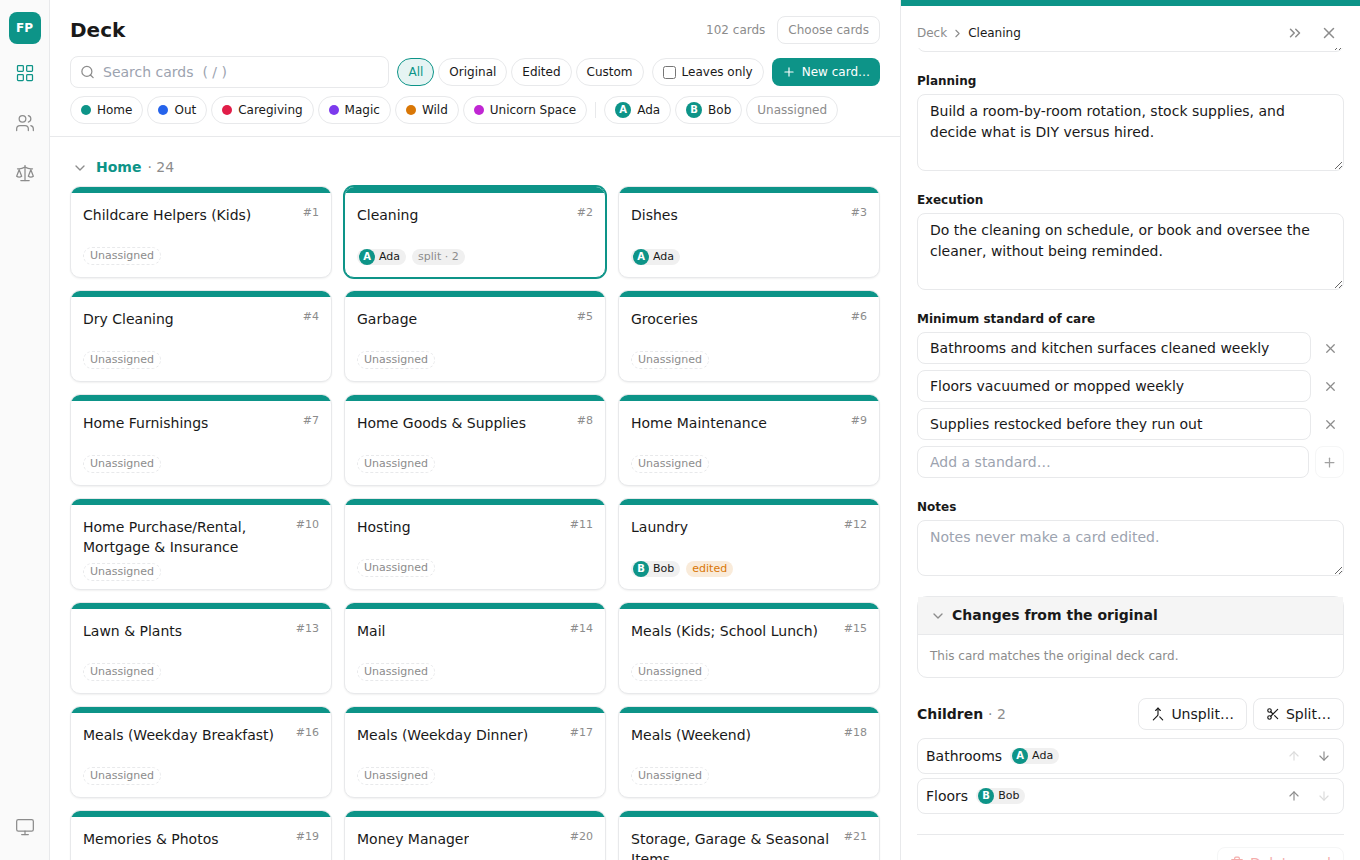
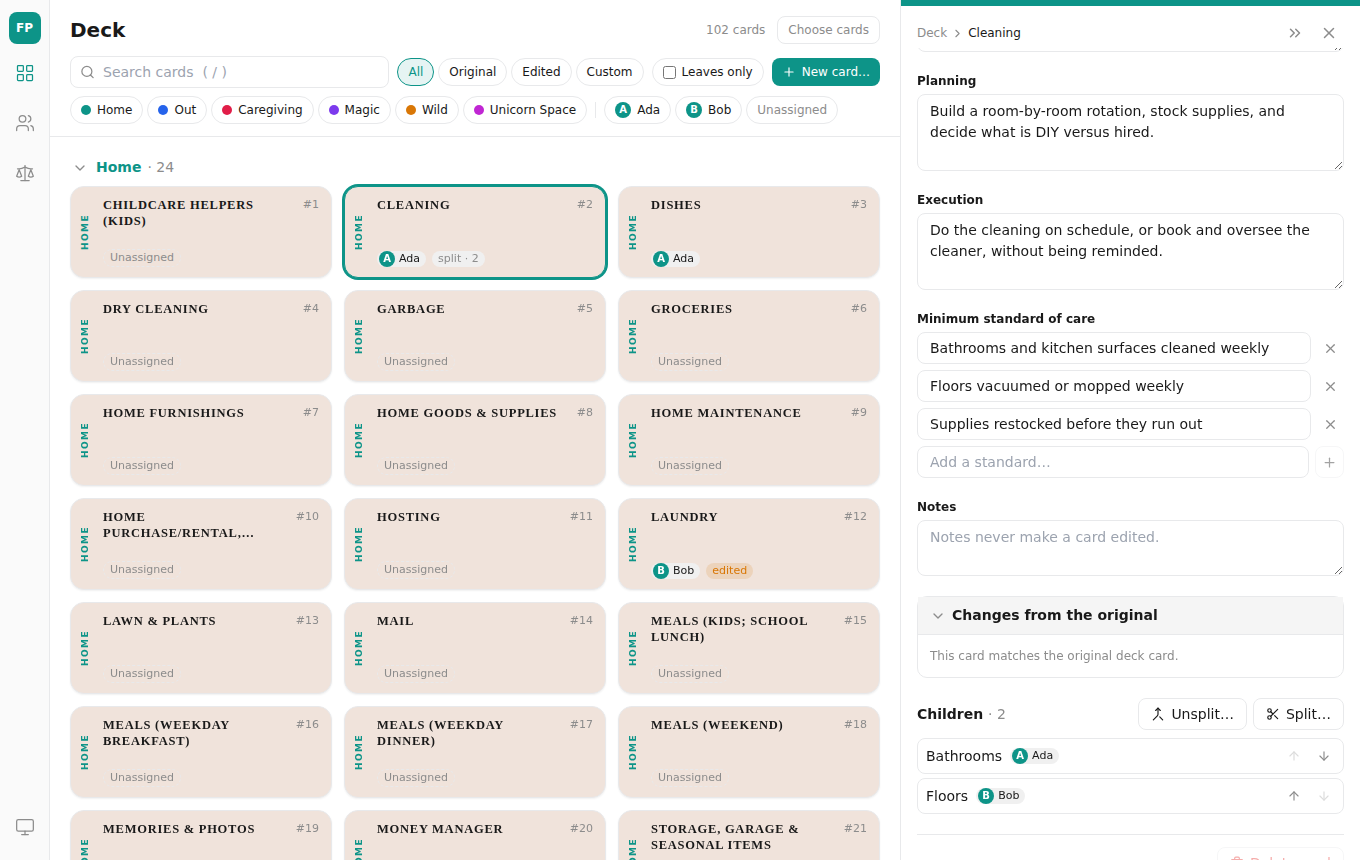
style(rusty_fair_play/web): card tiles after the printed deck
A blush-cream card, the name in spaced serif capitals, the suit written up
the left edge in its colour, the full name on hover. The look of the
product photos, not the artwork or fonts.

Claude-Session: https://claude.ai/code/session_01XZc4rZM6uXrkFSVnLkc54z

diff --git a/crates/apps/rusty_fair_play/web/src/features/deck/CardTile.tsx b/crates/apps/rusty_fair_play/web/src/features/deck/CardTile.tsx
@@ -2,7 +2,7 @@ import { Check } from 'lucide-react'
 import { Link } from 'react-router-dom'
 import type { Card, Person } from '@/api/types'
 import { PATHS } from '@/app/paths'
-import { OwnerChip, ownerOf, SplitBadge, StateBadge, suitBg } from '@/components/badges'
+import { OwnerChip, ownerOf, SplitBadge, StateBadge, suitText } from '@/components/badges'
 
 interface Props {
   card: Card
@@ -15,48 +15,52 @@ interface Props {
 }
 
 /** Every tile is the same size whatever the name or badges: the board is a grid of equal cards. */
-const frame = 'relative flex h-full w-full flex-col overflow-hidden rounded-card border bg-surface text-left shadow-card transition-colors hover:bg-hover'
+const frame = 'relative flex h-full w-full flex-col overflow-hidden rounded-[14px] border bg-paper py-2.5 pl-8 pr-3 text-left shadow-card transition hover:brightness-95 [[data-theme=dark]_&]:hover:brightness-125'
 
-/** One card on the board: suit stripe, number, name, owner, badges. */
+/**
+ * One card on the board, after the printed deck: a cream card, the name in spaced capitals, and the
+ * suit written up the left edge in its colour. (The look, not the artwork.)
+ */
 export function CardTile({ card, people, childCount, selected, choosing = false, onToggle }: Props) {
   const body = (
     <>
-      <span aria-hidden className={`h-1.5 shrink-0 ${suitBg[card.suit]}`} />
-      <span className="flex min-h-0 flex-1 flex-col gap-1.5 p-3">
-        <span className="flex items-start justify-between gap-2">
-          <span className="line-clamp-2 font-medium leading-5">{card.name}</span>
-          {choosing ? (
-            <span aria-hidden className={`flex h-5 w-5 shrink-0 items-center justify-center rounded border ${card.inPlay ? 'border-primary bg-primary text-white' : 'border-line'}`}>
-              {card.inPlay && <Check size={14} />}
-            </span>
-          ) : (
-            card.number !== null && <span className="shrink-0 text-xs text-grey">#{card.number}</span>
-          )}
-        </span>
-        <span className="mt-auto flex flex-wrap items-center gap-1.5">
-          {card.inPlay ? (
-            <>
-              <OwnerChip owner={ownerOf(card, people)} />
-              <StateBadge state={card.state} />
-              <SplitBadge count={childCount} />
-            </>
-          ) : (
-            <span className="rounded-full border border-dashed border-line px-1.5 text-xs text-grey">set aside</span>
-          )}
-        </span>
+      <span className="flex items-start justify-between gap-2">
+        <span className="line-clamp-2 font-serif text-[12.5px] font-semibold uppercase leading-4 tracking-[0.06em]">{card.name}</span>
+        {choosing ? (
+          <span aria-hidden className={`flex h-5 w-5 shrink-0 items-center justify-center rounded border ${card.inPlay ? 'border-primary bg-primary text-white' : 'border-grey/60'}`}>
+            {card.inPlay && <Check size={14} />}
+          </span>
+        ) : (
+          card.number !== null && <span className="shrink-0 text-xs text-grey">#{card.number}</span>
+        )}
+      </span>
+      <span className="mt-auto flex flex-wrap items-center gap-1.5">
+        {card.inPlay ? (
+          <>
+            <OwnerChip owner={ownerOf(card, people)} />
+            <StateBadge state={card.state} />
+            <SplitBadge count={childCount} />
+          </>
+        ) : (
+          <span className="rounded-full border border-dashed border-grey/60 px-1.5 text-xs text-grey">set aside</span>
+        )}
+      </span>
+      {/* After the name in the DOM, so the tile's text still starts with the card; placed on the left edge. */}
+      <span aria-hidden className={`absolute inset-y-0 left-0 flex w-7 items-center justify-center overflow-hidden py-2 text-[9px] font-semibold uppercase tracking-[0.16em] [writing-mode:vertical-rl] rotate-180 ${suitText[card.suit]}`}>
+        <span className="overflow-hidden text-ellipsis whitespace-nowrap">{card.suit}</span>
       </span>
     </>
   )
   const tone = card.inPlay ? '' : 'opacity-60'
   if (choosing) {
     return (
-      <button type="button" role="checkbox" aria-checked={card.inPlay} aria-label={`${card.name} is in our deck`} data-testid="card-tile" onClick={() => onToggle?.(card)} className={`${frame} ${tone} ${card.inPlay ? 'border-primary/60' : 'border-line'}`}>
+      <button type="button" role="checkbox" aria-checked={card.inPlay} aria-label={`${card.name} is in our deck`} data-testid="card-tile" title={card.name} onClick={() => onToggle?.(card)} className={`${frame} ${tone} ${card.inPlay ? 'border-primary/60' : 'border-line'}`}>
         {body}
       </button>
     )
   }
   return (
-    <Link to={PATHS.card(card.id)} aria-current={selected ? 'true' : undefined} data-testid="card-tile" className={`${frame} ${tone} ${selected ? 'border-primary ring-1 ring-primary' : 'border-line'}`}>
+    <Link to={PATHS.card(card.id)} aria-current={selected ? 'true' : undefined} data-testid="card-tile" title={card.name} className={`${frame} ${tone} ${selected ? 'border-primary ring-2 ring-primary' : 'border-line'}`}>
       {body}
     </Link>
   )

diff --git a/crates/apps/rusty_fair_play/web/src/styles/tokens.css b/crates/apps/rusty_fair_play/web/src/styles/tokens.css
@@ -5,6 +5,7 @@
   --grey: 140 140 140; /* #8c8c8c */
   --line: 232 233 235; /* #e8e9eb */
   --surface: 255 255 255;
+  --paper: 240 227 219; /* #f0e3db: the blush cream of a Fair Play card */
   --rail: 250 250 250; /* #fafafa */
   --side: 247 247 247; /* #f7f7f7 */
   --hover: 245 245 245;
@@ -30,6 +31,7 @@
   --grey: 150 150 150;
   --line: 52 52 56;
   --surface: 26 26 28;
+  --paper: 47 41 37; /* #2f2925 */
   --rail: 32 32 34;
   --side: 30 30 32;
   --hover: 40 40 43;

diff --git a/crates/apps/rusty_fair_play/web/tailwind.config.js b/crates/apps/rusty_fair_play/web/tailwind.config.js
@@ -12,6 +12,7 @@ export default {
         grey: v('grey'),
         line: v('line'),
         surface: v('surface'),
+        paper: v('paper'),
         rail: v('rail'),
         side: v('side'),
         hover: v('hover'),

diff --git a/RELEASE_NOTES.md b/RELEASE_NOTES.md
@@ -41,7 +41,7 @@ to its PR. Bolded inline category tags (`**Added:**` / `**Changed:**` /
 **2026-10-04** · [ADR-0001](crates/apps/rusty_fair_play/docs/decisions/ADR-0001-front-end-shape.md) (decision 10)
 
 - **Added:** a family chooses which cards are in its deck. `PATCH {"inPlay": false}` sets a card aside (taking it back from its owner in the same write); `true` adds it back. A set-aside card cannot be dealt, split or made a parent, and a split card cannot be set aside. The choice is a `set-aside.json` beside the stores, written by rename, so the stored `Card` keeps its layout and no data directory is migrated; it is part of the card's etag. The UI: an "In our deck" checkbox in the pane, a **Choose cards** mode with a checkbox tile per card and "All in / All out" per suit, a "Set aside · N" view to bring cards back, and the board, undealt list and balance counting only the cards in play.
-- **Changed:** every card tile is the same size (it was as wide as its content), and the detail pane folds to a thin rail with a button, remembered across reloads; opening a card brings it back.
+- **Changed:** every card tile is the same size (it was as wide as its content) and styled after the printed deck — a blush-cream card, the name in spaced serif capitals, the suit written up the left edge in its colour (the look, not the artwork) — and the detail pane folds to a thin rail with a button, remembered across reloads; opening a card brings it back.
 - Corrections: a set-aside card must be added back successfully before assigning an owner (a combined request is 422). Membership updates reach memory only after saving the sidecar; deletion/unsplit clean membership before removing cards so failed cleanup remains retryable. Confirmed and bulk deck changes retain selection-time ETags, and folding details preserves drafts and pending saves.
 - Known limitations: the set-aside file is outside the engine's durability; operations across the card store and sidecar are not atomic and interruption can leave an unowned card in play. Only another app needing the choice would justify a stored `Card` field and a migration. Setting a split card aside needs an unsplit first.
 

diff --git a/crates/apps/rusty_fair_play/web/README.md b/crates/apps/rusty_fair_play/web/README.md
@@ -51,7 +51,7 @@ localStorage, nothing sent anywhere.
   every card as a checkbox tile with "All in" / "All out" per suit. A "Set aside · N"
   chip shows only the cards left out, to bring them back. The board, the undealt list
   and the balance count only the cards in play.
-- **Layout.** Every tile is the same size (two lines of name at most). The detail pane
+- **Layout.** Every tile is the same size (two lines of name at most, the full name on hover), styled after the printed deck: a blush-cream card, the name in spaced serif capitals, the suit up the left edge. The detail pane
   folds to a thin rail with its »/« button, remembered across reloads, and opening a
   card brings it back.
 - `#/players` — people with "holds N cards (M leaves)", inline rename, add (a
